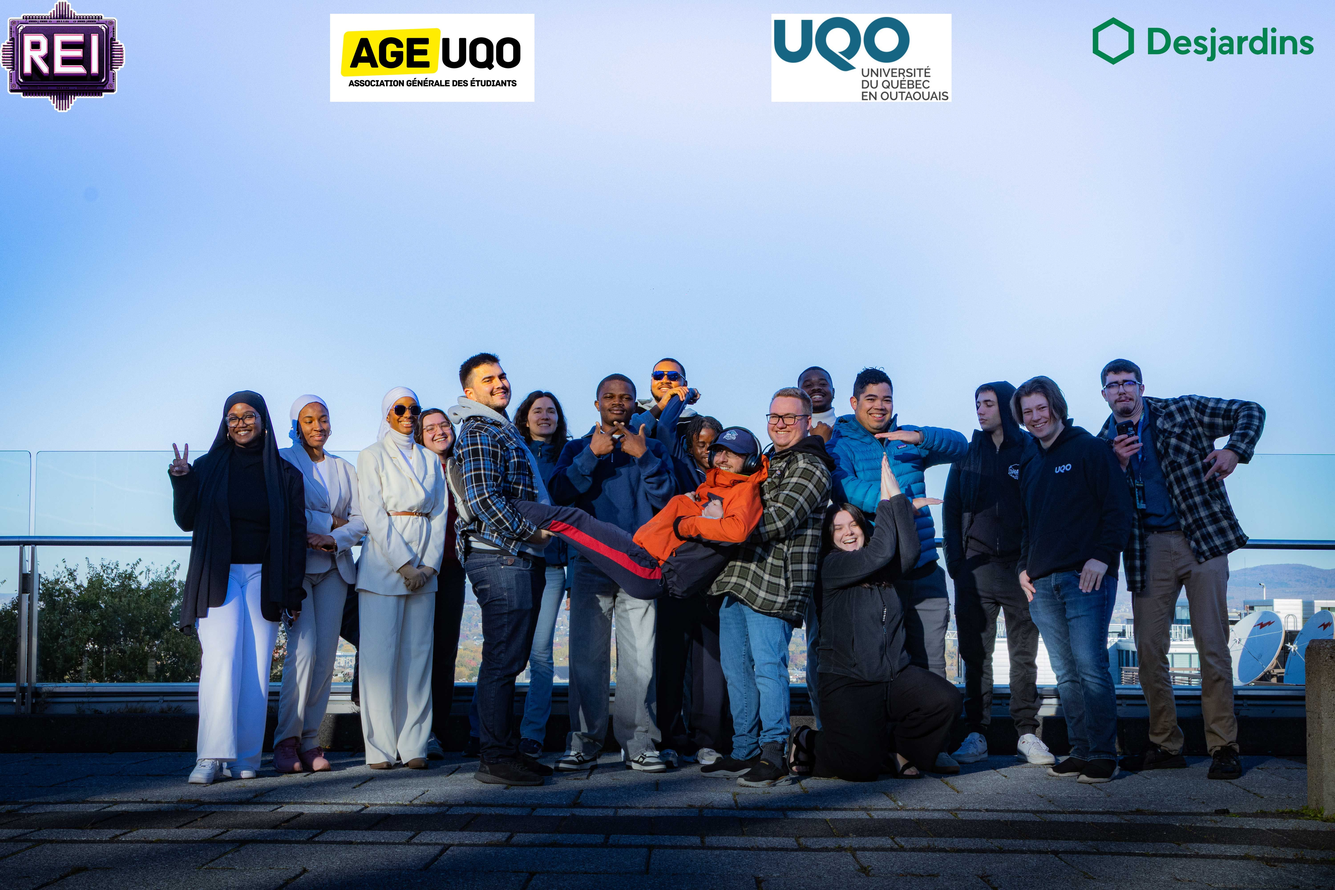
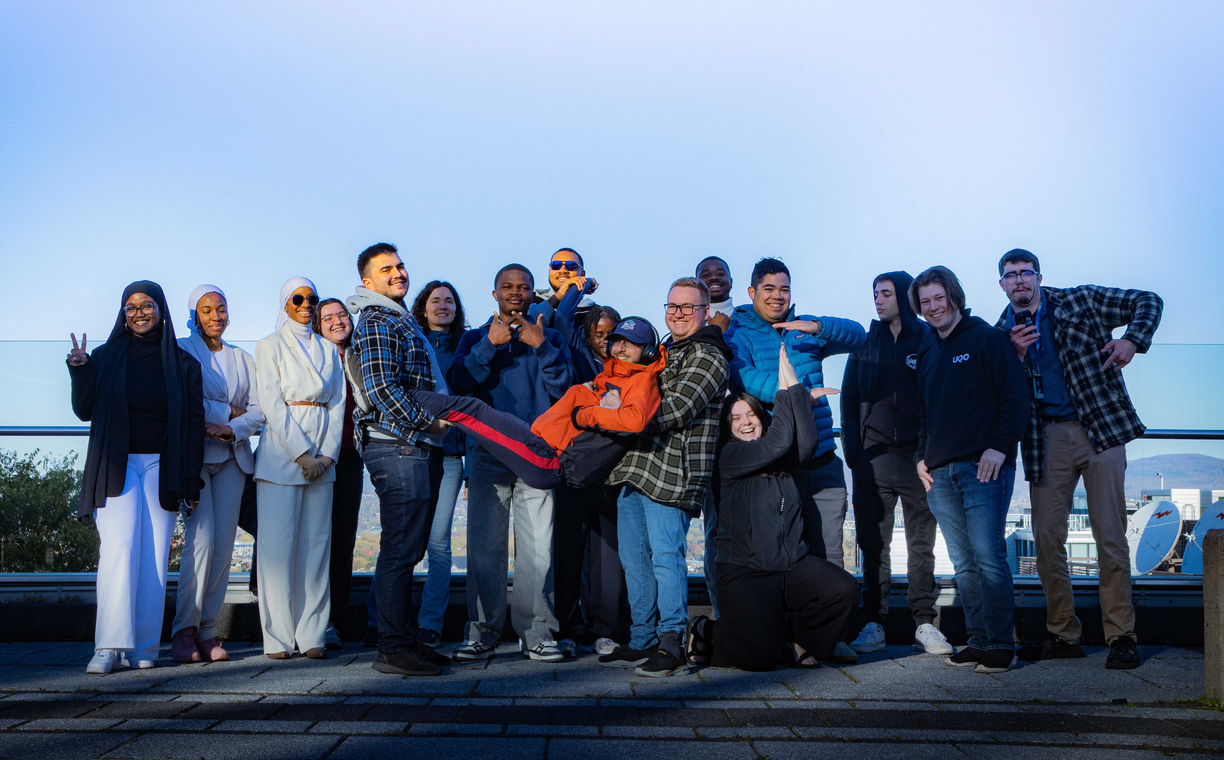
Petits ajouts et modifications mineures. Ajout des photos du uHack, notamment.

diff --git a/site/pages/uqode.html b/site/pages/uqode.html
@@ -107,7 +107,7 @@
 
 <body>
 	<!--Titre et Menu Principal-->
-	<div class="header" style="background-image: url('/images/UQODE_AtelierPython_Automne2024.jpg');">
+	<div class="header" style="background-image: url('/images/uhack26-3.jpg');">
 		<nav class="menuPrincipal"></nav>
 		<div class="header-contenu">
 			<h1>l'UQODE</h1>
@@ -233,6 +233,7 @@
 				<p>Coordonateur des activités en IA</p>
 				<div class="infos-contact">
 					<div class="img-conteneur" onmouseover="montrerUsager('Richard', 'Discord')" onmouseout="cacherUsager('Richard')"><img src="/images/Discord-Symbol-White.svg"></div>
+					<div class="img-conteneur" onmouseover="montrerUsager('Richard', 'Matrix')" onmouseout="cacherUsager('Richard')"><img src="/images/element-logo-white.png"></div>
 				</div>
 				<div class="hoverbox" id="hoverbox-Richard"></div>
 			</div>
@@ -240,7 +241,7 @@
 		
 		<!--Déclaration de mandat-->
 		<div class="gap"></div>
-		<h2 style="font-size: 3em;">Déclaration de Mandat</br>&</br>Registre des Membres</h2>
+		<h2 style="font-size: 3em;">Déclaration de Mandat<br>&<br>Registre des Membres</h2>
 		<hr class="separateur">
 		<p>
 			L'UQODE existe par décret du REI et est régie par sa Déclaration de Mandat, inscrite dans les 

diff --git a/site/pages/qui-sommes-nous.html b/site/pages/qui-sommes-nous.html
@@ -313,7 +313,7 @@
 			<div>
 				<img src="/images/Felix_Ladouceur.jpeg">
 				<h2>Félix Ladouceur</h2>
-				<p>Vice-Présidente du REI</p>
+				<p>Vice-Président du REI</p>
 				<div class="infos-contact">
 					<div class="img-conteneur" onmouseover="montrerUsager('Felix', 'Discord')" onmouseout="cacherUsager('Felix')"><img src="/images/Discord-Symbol-White.svg"></div>
 				</div>
@@ -353,6 +353,7 @@
 				<p>Conseiller aux communications du REI</p>
 				<div class="infos-contact">
 					<div class="img-conteneur" onmouseover="montrerUsager('Richard', 'Discord')" onmouseout="cacherUsager('Richard')"><img src="/images/Discord-Symbol-White.svg"></div>
+					<div class="img-conteneur" onmouseover="montrerUsager('Richard', 'Matrix')" onmouseout="cacherUsager('Richard')"><img src="/images/element-logo-white.png"></div>
 				</div>
 				<div class="hoverbox" id="hoverbox-Richard"></div>
 			</div>

diff --git a/site/javascript/mouseover-membres.js b/site/javascript/mouseover-membres.js
@@ -14,6 +14,11 @@ function montrerUsager (nom, service)
 						hoverbox = document.getElementById('hoverbox-Godbout');
 						hoverbox.innerHTML = "@gyoo18:gyoo.ca";
 						break;
+					
+					case 'Richard':
+						hoverbox = document.getElementById('hoverbox-Richard');
+						hoverbox.innerHTML = "@minato061215:rei-uqode.ca";
+						break;
 				}
 			}
 			

diff --git a/site/pages/poste_premieres_annees.html b/site/pages/poste_premieres_annees.html
@@ -113,7 +113,7 @@
 
 <body>
 	<!--Titre et Menu Principal-->
-	<div class="header" style="background-image: url('/images/csgames26-6.jpg');">
+	<div class="header" style="background-image: url('/images/csgames26-5.jpg');">
 		<nav></nav>
 		<div class="header-contenu">
 			<h1>Représentant des Première Année</h1>

diff --git a/site/pages/accueil.html b/site/pages/accueil.html
@@ -334,7 +334,7 @@
 				uJam
 			</div>
 			<div onclick="loadImg('uHack')">
-				<img class="arrondi" src="/images/uHack2024.jpg" alt="photo de membres du REI">
+				<img class="arrondi" src="/images/uhack26-3.jpg" alt="photo de membres du REI">
 				uHack
 			</div>
 			<div onclick="loadImg('gameNight')">
